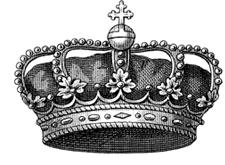
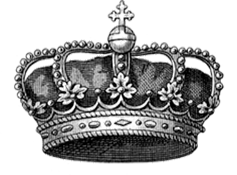
stylish navigation panel is over

diff --git a/main.html b/main.html
@@ -13,30 +13,41 @@
 	<header class="header">
 		<div class="header__nav_container">
 			<div class="conteiner__nav_list_1">
-				<ul class="list_left">
-					<li>home</li>
-					<li>categories</li>
-				</ul>
-			</div>
-			<img class="image__main_logo" src="image/crown.png" alt="crown" width="225px" height="165px">
-			<div class="conteiner__nav_list_2">
-				<ul class="list_right">
-					<li>themes</li>
-					<li>contact</li>
+				<ul class="list_navigation">
+					<li><a class="archor_navigation" href="http://htmlbook.ru/css/text-shadow" target="target">home</a></li>
+					<li class="point__list">•</li>
+					<li><a class="archor_navigation" href="http://htmlbook.ru/faq" target="target">categories</a></li>
+			        <li><img class="image__main_logo" src="image/crown.png" alt="crown" width="225px" height="165px"></li>
+					<li><a class="archor_navigation" href="http://htmlbook.ru/css3" target="target">themes</a></li>
+					<li class="point__list">•</li>
+					<li><a class="archor_navigation" href="http://htmlbook.ru/webserver" target="target">contact</a></li>
 				</ul>
 			</div>
 		<div class="container__main_logo">		
-			<p class="text__main_logo_1">s • i • m • p • l • y</p>
+			<p class="text__main_logo_1">s <span>•</span> i <span>•</span> m <span>•</span> p <span>•</span> l <span>•</span> y</p>
 			<hr>
 			<p class="text__main_logo_2">creative</p>
 			<hr>
-		</div>	
+		</div>
+		
 	</header>
     <main class="main">
+    	<div class="descrip_text_block">
+			<p class="descrip_text">Lorem ipsum dolor sit amet, consectetur adipisicing elit. Alias ea consequuntur quae ipsum consequatur, necessitatibus soluta id eveniet voluptas aperiam modi et.</p>
+		</div>
     	<div class="conteiner__articles">
-    		<div class="block__articles_1"></div>
-    		<div class="block__articles_2"></div>
-    		<div class="block__articles_3"></div>
+    		<div class="block__articles_1">
+    			<img src="" alt="girls Face" class="layer1" width="300px" height="266">
+    			<hr><hr>
+    		</div>
+    		<div class="block__articles_2">
+    			<img src="" alt="girls Face" class="layer1" width="300px" height="266">
+    			<hr><hr>
+    		</div>
+    		<div class="block__articles_3">
+    			<img src="" alt="girls Face" class="layer1" width="300px" height="266">
+    			<hr><hr>
+    		</div>
     	</div>
     	<div class="blockquote_block">
     		<p id="blockquote">

diff --git a/style/main.css b/style/main.css
@@ -4,13 +4,16 @@ html {
 }
 body {
 	width: 1500px;
-	min-height: 100%;
+	max-width: 2200px;
+	max-height: 100%;
 	margin: 0 0 150px;
 	background: url("../image/mainBackgroundCloud.jpg") no-repeat;
+	font-size: 100%;
 }
-hr {
-	margin: 0;
-	padding: 0;
+.main {
+	width: 960px;
+	height: 100%;
+	margin: 0 auto;
 }
 .footer {
 	position: absolute;
@@ -20,17 +23,54 @@ hr {
 	height: 150px; /* для подвала */
 }
 .header, .header__nav_container {
-	height: 500px;
+	height: 400px;
     width: 100%;
 }
 
-.list_left, .list_right {
-	display: inline-block;
-	
+/*center alignment of the container*/
+.header__nav_container {
+	width: 645px;
+	padding: 0;
+	margin: 0 auto;
 }
+/*navigation style */
+
+.list_navigation {
+	padding: 0;
+}
+.list_navigation li {
+	display: inline-block;
+	font-family: RBNo2 Light, serif;
+	font-size: 1.5em;
+	vertical-align: middle;
+	text-transform: uppercase;
+	margin: 10px;
+}
+.point__list {
+	color: #adadac;
+}
+/*activisation archor navigation style*/
+
+.archor_navigation {
+	text-decoration: none;
+}
+.archor_navigation:link {
+	color: black;
+}
+.archor_navigation:visited {
+	color: black;
+}
+.archor_navigation:active {
+	color: black;
+	text-shadow: 2px 4px 2px grey;
+}
+
+/*styles for main logo */
+
 .container__main_logo {
 	height: 187px;
 	width: 350px;
+	margin: 0 auto;
 	text-align: center;
 }
 .text__main_logo_1 {
@@ -38,13 +78,35 @@ hr {
 	font-size: 36px;
 	text-transform: uppercase;
 	margin-bottom: 18px;
-	letter-spacing: 3px;
+	letter-spacing: 4px;
+	vertical-align: middle;
+}
+.text__main_logo_1 span {
+	font-size: 0.5em;
+	vertical-align: 4px;
 }
 .text__main_logo_2 {
 	font-family: TrajanPro-Regular, serif;
-	font-size: 20px;
+	font-size: 1.5em;
 	text-transform: uppercase;
 	letter-spacing: 19px;
 	margin-top: 10px;
 	margin-bottom: 10px;
+}
+.image__main_logo {
+	opacity: 0.79;
+}
+
+/* 
+style description of the sity */
+
+.descrip_text_block {
+	font-family: Calibri, serif;
+	font-size: 1.2em;
+	width: 700px;
+	margin: 0 auto;
+}
+.descrip_text_block .descrip_text {
+	text-align: center;
+
 }
